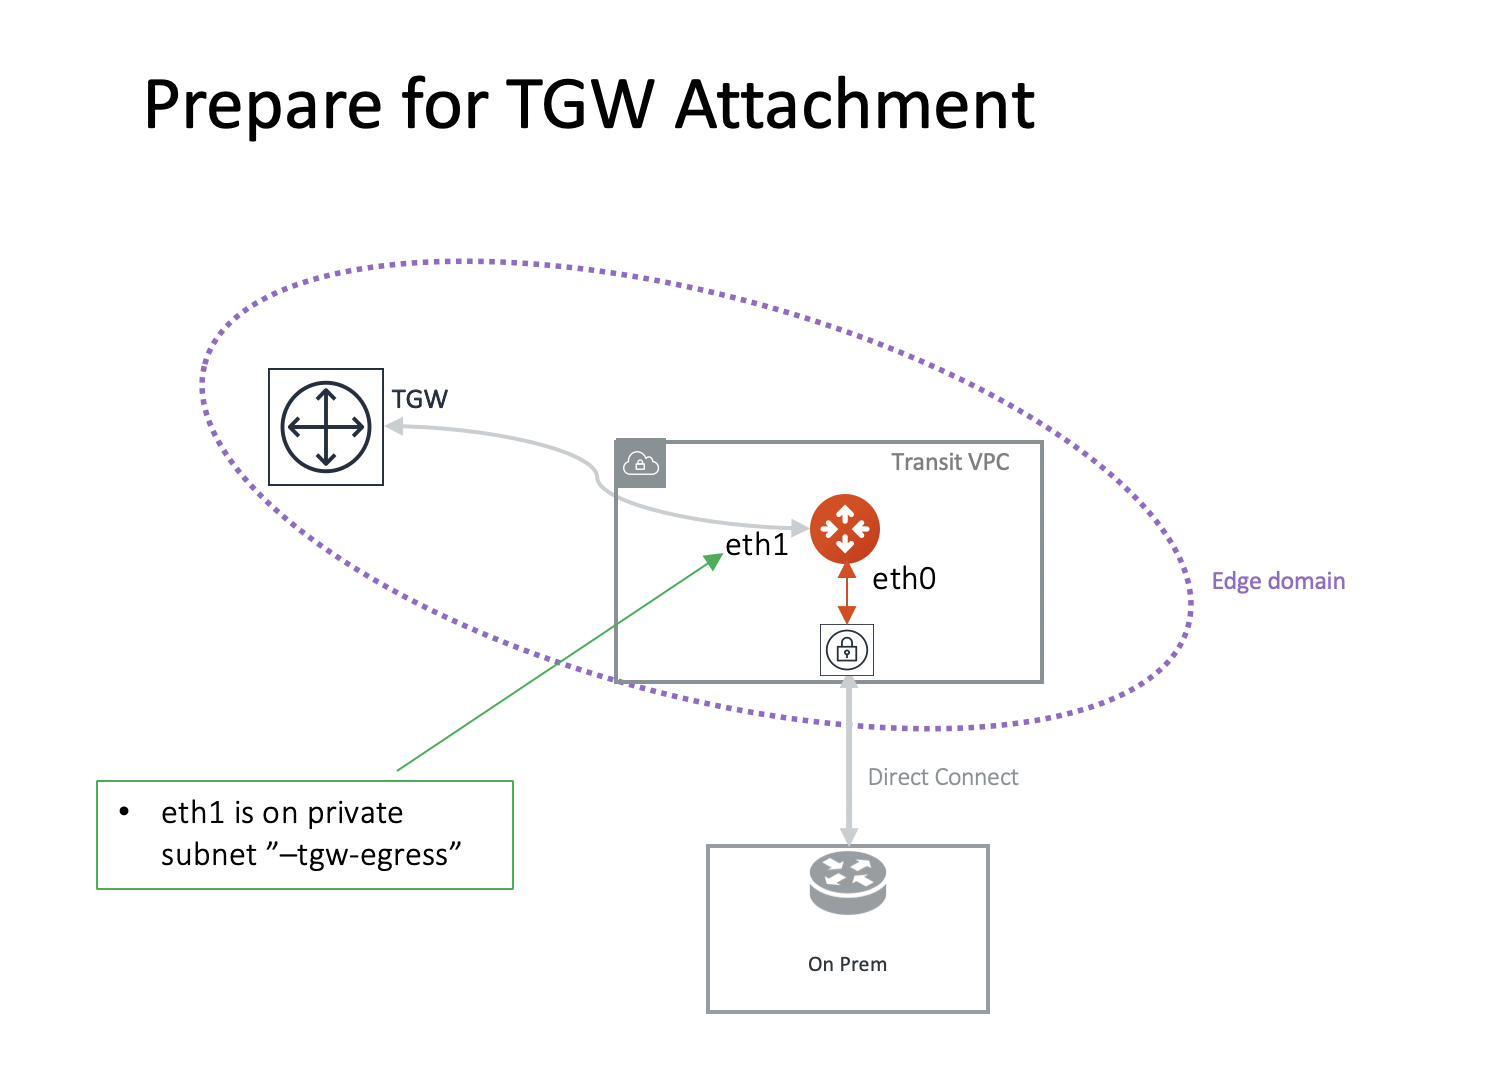
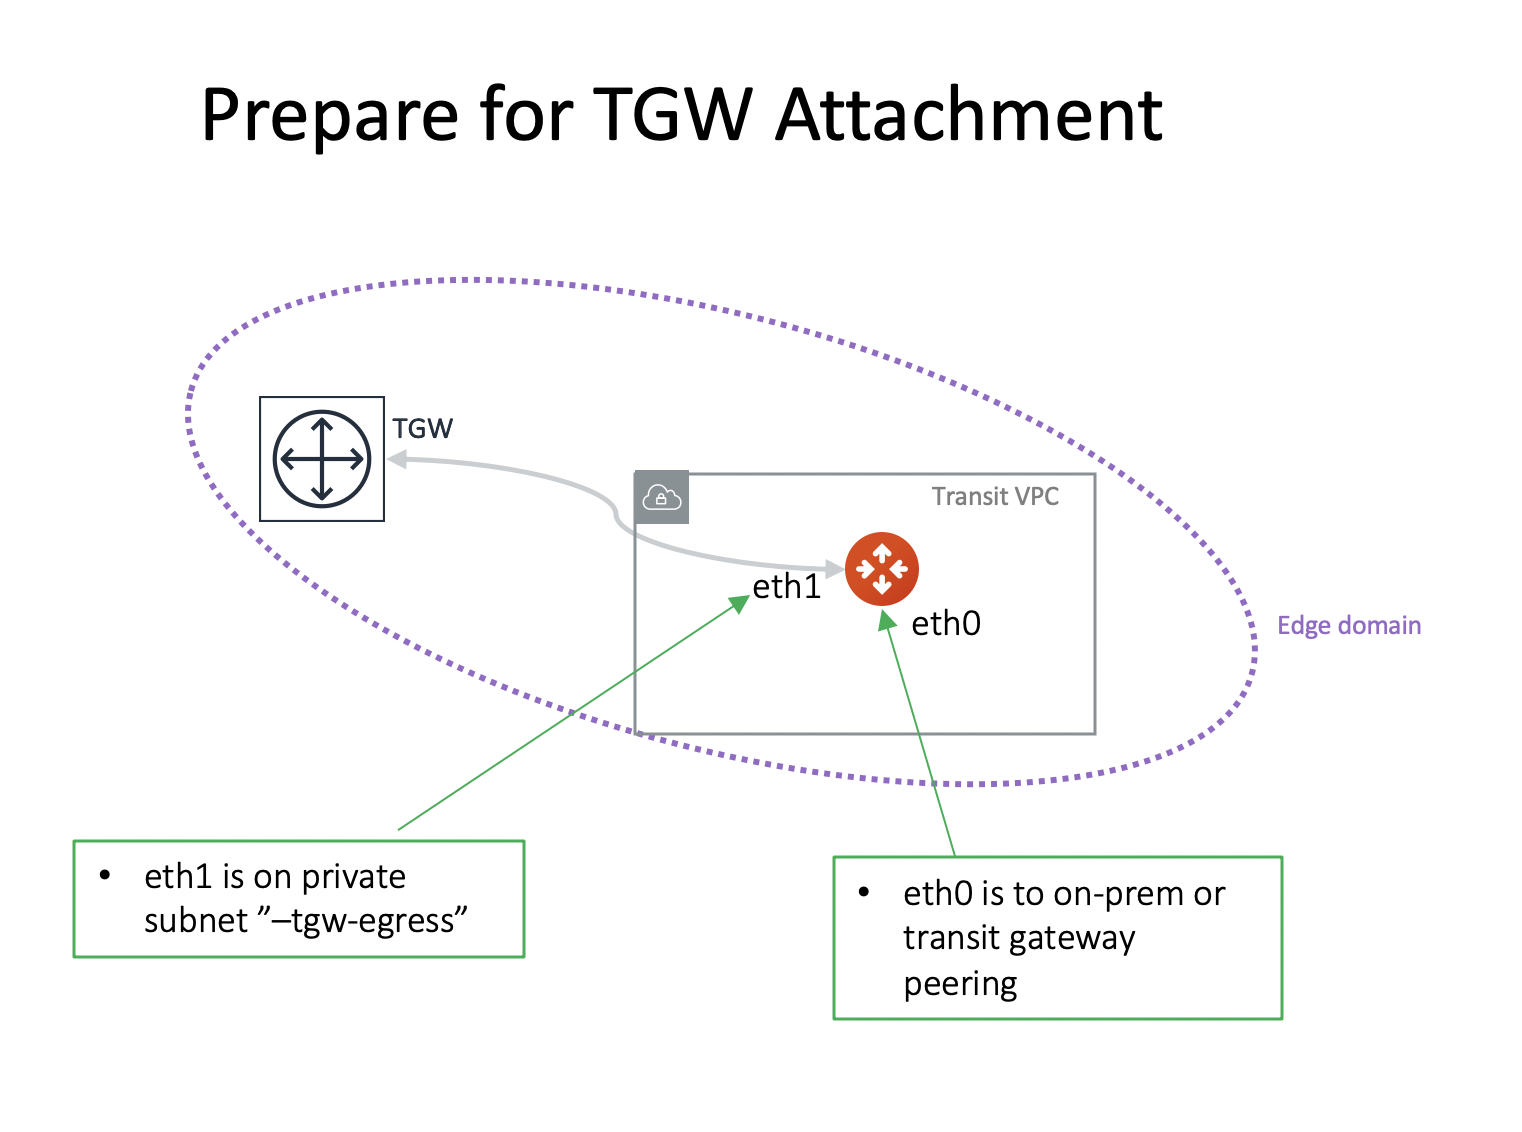
clean up tgw plan

diff --git a/HowTos/tgw_plan.rst b/HowTos/tgw_plan.rst
@@ -123,46 +123,32 @@ Direct Connect or Internet.
 4. Setup Aviatrix Transit GW  
 ------------------------------------------------------------------
 
-If your deployment does not require on-prem connection or to another Transit gateway, skip this section. Later when the 
-requirement changes, return to this section and start with Step 4 to setup. 
+This section, Step 4, 5 and 6, is about deploying Aviatrix Transit Gateways in a VPC and attach the VPC to TGW. From TGW point of view, this VPC is 
+a Spoke VPC attached to TGW, however from Controller point of view, the Aviatrix Transit Gateway is the packet forwarding engine to on-prem 
+or to another Aviatrix Transit Gateway. The direct attachment architecture allows the Aviatrix Transit Gateways to forward packets to TGW and Spoke VPCs 
+at the rate of 50Mbps as specified by TGW. 
+
+The use case for this deployment is to use Aviatrix Transit Gateway to connect to on-prem or to peer with another Aviatrix Transit Gateway. 
+
+If you intend to use `TGW DXGW to connect to on-prem <https://docs.aviatrix.com/HowTos/tgw_plan.html#setup-aws-transit-gateway-direct-connect>`_ , `TGW VPN to connect to on-prem <https://docs.aviatrix.com/HowTos/tgw_plan.html#setup-aws-transit-gateway-vpn-connection>`_ or use `native TGW Peering to 
+connect to regions <https://docs.aviatrix.com/HowTos/tgw_plan.html#tgw-inter-region-peering>`_ , skip this section. 
+
+This section is modular, return to this section anytime if your requirements change later. 
 
 .. tip::
 
-  Create a new transit VPC at `Useful Tools -> Create a VPC <https://docs.aviatrix.com/HowTos/create_vpc.html>`_. Select the option "Aviatrix Transit VPC". 
-  If you would like to continue to use your existing transit VPC and it is too small (not enough of /28 unused segments), use AWS Edit VPC CIDR feature to create a new /24 subnet for the Aviatrix Transit Gateway in TGW use case. 
+  We strongly recommend you to create a new transit VPC at `Useful Tools -> Create a VPC <https://docs.aviatrix.com/HowTos/create_vpc.html>`_. Select the option "Aviatrix Transit VPC". 
+  If you would like to use an existing VPC and its network CIDR is too small (not enough of /28 unused CIDR segments), use AWS Edit VPC CIDR feature to create a new /23 subnet to deploy the Aviatrix Transit Gateway in TGW use case. 
 
-4.1 Non DMZ Transit Network
-~~~~~~~~~~~~~~~~~~~~~~~~~~~~~~
+To deploy the Aviatrix Transit Gateways, take a detour and complete Step 1 & 2 in the `Transit Network workflow <https://docs.aviatrix.com/HowTos/transitvpc_workflow.html>`_. If you intent to use Aviatrix Transit Gateway to connect to on-prem, also complete `Step 3 <https://docs.aviatrix.com/HowTos/transitvpc_workflow.html#connect-the-transit-gw-to-aws-vgw>`_.
 
-Non DMZ Transit refers to the configuration where Aviatrix Transit gateway at the edge VPC connects to on-prem in the following scenarios, 
-
- - AWS VGW
- - External Device over Direct Connect or Internet
- - Aviatrix Appliance CloudN. 
-
-|transit_gw|
-
-Step 4.1 is to take a detour to set up an Aviatrix Transit GW if you have not done so. Follow the `the Transit Network workflow <https://docs.aviatrix.com/HowTos/transitvpc_workflow.html>`_ and complete Transit Network workflow Steps 1, 2 and 3. 
-
-When complete, return to this section and continue to Step 5 in this workflow to Enable Aviatrix Transit GW for Hybrid Connection. 
-
-
-4.2 Transit DMZ
-~~~~~~~~~~~~~~~~~
-
-If you plan to deploy Transit DMZ as shown below, follow the `Transit DMZ workflow <https://docs.aviatrix.com/HowTos/transit_dmz_workflow.html>`_ to launch the gateways and complete Transit DMZ workflow Step 1, Step 2 and Step 3. Step 4 can be setup at any time later.  
-
-|transit_dmz|
-
-When complete, you are done! 
-
-(The next two steps, Step 5 and Step 6 in this workflow should have already been executed for the Main gateway, i.e., you can skip the next two steps.) 
+When complete, return to this section and continue to Step 5 in this workflow to Enable Aviatrix Transit GW to TGW. 
 
 
 5. Prepare Aviatrix Transit GW for TGW Attachment
 ---------------------------------------------------------------
 
-The Aviatrix Transit GW created in Step 4 does not build an IPSEC tunnel to AWS Transit Gateway. The networking between AWS Transit Gateway and the Aviatrix Transit GW is via the AWS VPC infrastructure. 
+The Aviatrix Transit GW created in Step 4 does not build an IPSEC tunnel to AWS Transit Gateway. The networking between AWS Transit Gateway and the Aviatrix Transit GW is via the AWS VPC infrastructure.
 
 This step designates an Aviatrix Transit GW to be used in conjunction with the AWS Transit Gateway. 
 It creates a second Ethernet interface eth1 on the Aviatrix Transit GW for sending and receiving packets from AWS Transit Gateway. 
@@ -199,12 +185,12 @@ In this step, route entries are added to the two created private subnet route ta
 
 |transit_complete|
 
-After you finish Step 4, 5 and 6, your hybrid connection setup is complete. In the above example, 
+After you finish Step 4, 5 and 6, your hybrid connection using Aviatrix Transit Gateway for TGW setup is complete. 
+In the above example, 
 if you have any Spoke VPCs attached to the prod_domain, EC2 instances should be able to communicate with 
 on-prem. (Make sure instance security groups and any on-prem firewalls are configured properly.)
 
-
-------------------------------------------------------------------------------------------------
+------------------------------------------
 
 This section consists of TGW native VPN, Direct Connect and TGW Inter Region Peering functions. 
 
@@ -212,12 +198,13 @@ Since TGW does not propagate learned routes from DXGW or VPN to Spoke VPCs, Avia
 this problem by periodically polling the TGW route table and programming the learned routes to attached Spoke VPCs.
 
 Setup AWS Transit Gateway VPN Connection
--------------------------------------------
+--------------------------------------------
 
-This section configures a native VPN connection from TGW. It takes two steps: first configure, then download the configuration. 
 
 Step 7 Setup VPN Connection
 ~~~~~~~~~~~~~~~~~~~~~~~~~~~~~
+
+This function configures a native TGW VPN. It takes two steps: first configure, then download the configuration. 
 
 This step creates a VPN connection from TGW in a selected Security Domain.
 
